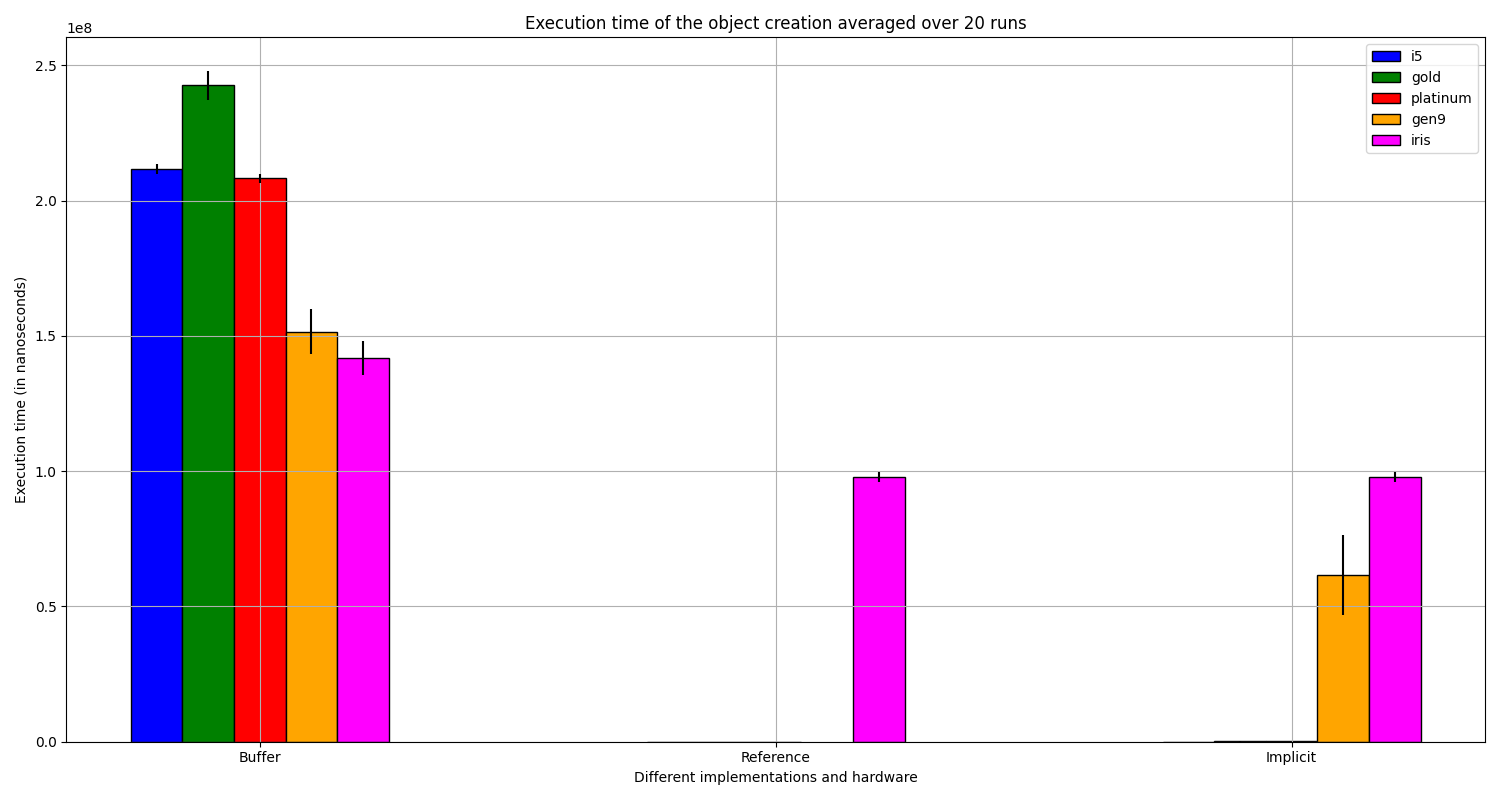
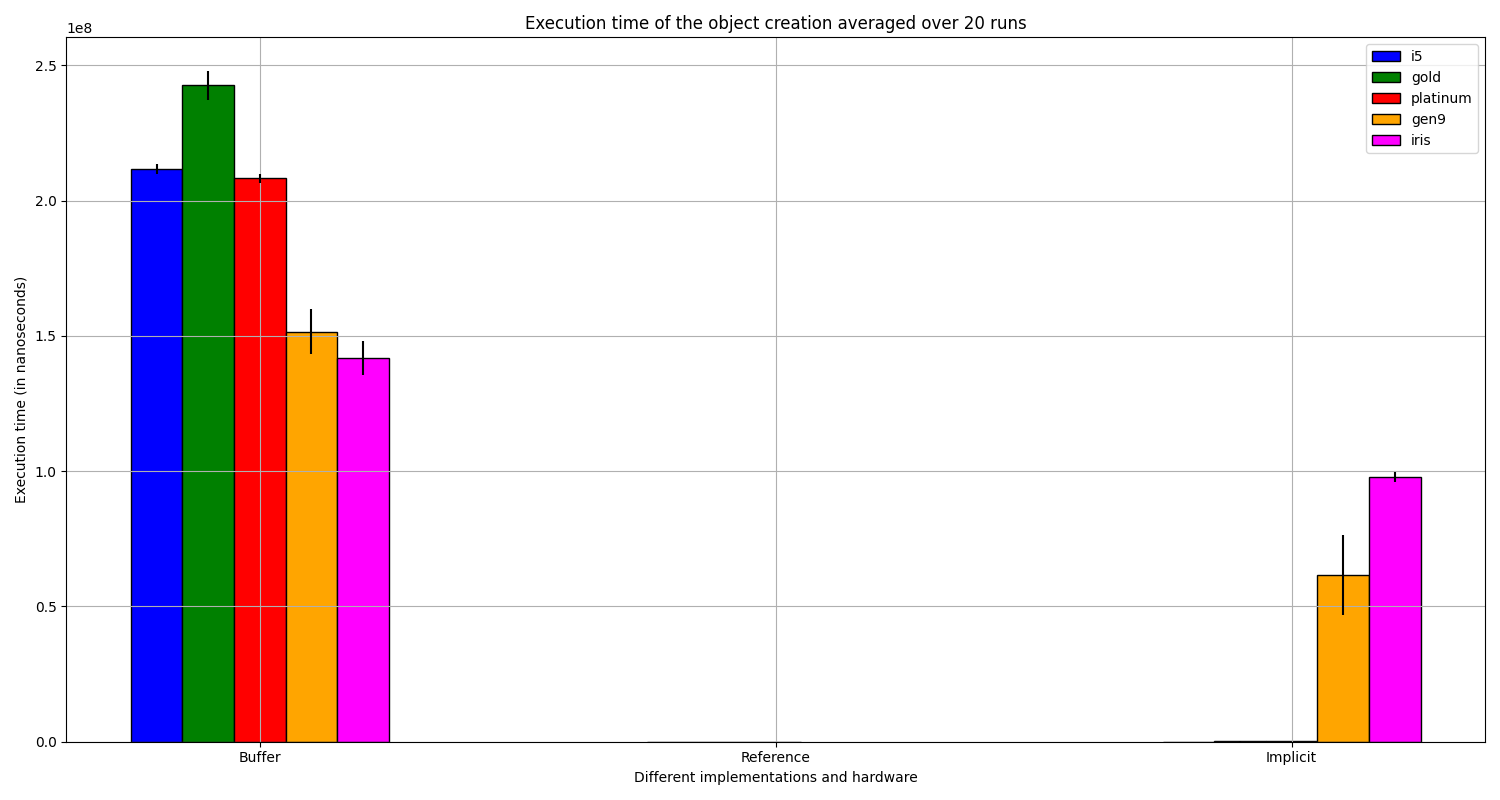
results renew and README and gitignore

Changed region(s): [[0.552, 0.5938, 0.6133, 0.9375]]

diff --git a/plot.py b/plot.py
@@ -15,8 +15,8 @@ from os.path import isfile, join
 
 path = "/home/julius/Downloads/idg-fpga-master/thesis/"
 
-# data_size = "small_param/"
-data_size = "big_param/"
+data_size = "small_param/"
+# data_size = "big_param/"
 
 path_buffer = path + "buffer/output/" + data_size
 path_ref = path + "reference/output/" + data_size
@@ -26,8 +26,8 @@ path_implicit = path + "implicit/output/" + data_size
 # NR_BASELINES * NR_TIMESTEPS * NR_CHANNELS or ((NR_STATIONS * (NR_STATIONS - 1)) / 2) * (NR_TIMESTEPS_SUBGRID * NR_TIMESLOTS) * NR_CHANNELS
 # small params: (10 * 9) / 2) * (128 * 2) * 16 = 184320
 # big params:   (48 * 47) / 2) * (128 * 4) * 16 = 9240576
-# visibilities = 184320
-visibilities = 9240576
+visibilities = 184320
+# visibilities = 9240576
 
 # the width of the bars of the plots
 width = 0.1
@@ -102,10 +102,10 @@ def plot_object_create(buf_i5, buf_gold, buf_plat, buf_gen9, buf_iris,
     fig.tight_layout()
     plt.savefig(path + "plots/" + data_size + "creation_time.png")
 
-    plt.yscale('log')
-    ax.set_title('Execution time of the object creation averaged over 20 runs in log scale')
-    plt.tight_layout()
-    plt.savefig(path + "plots/" + data_size + "creation_time_log.png")
+    # plt.yscale('log')
+    # ax.set_title('Execution time of the object creation averaged over 20 runs in log scale')
+    # plt.tight_layout()
+    # plt.savefig(path + "plots/" + data_size + "creation_time_log.png")
 
 # ---------------------------------------------------------------------------------------------------------------------
 
@@ -159,10 +159,10 @@ def plot_object_init(buf_i5, buf_gold, buf_plat, buf_gen9, buf_iris,
     fig.tight_layout()
     plt.savefig(path + "plots/" + data_size + "init_time.png")
 
-    plt.yscale('log')
-    ax.set_title('Execution time of the object initialisation averaged over 20 runs in log scale')
-    plt.tight_layout()
-    plt.savefig(path + "plots/" + data_size + "init_time_log.png")
+    # plt.yscale('log')
+    # ax.set_title('Execution time of the object initialisation averaged over 20 runs in log scale')
+    # plt.tight_layout()
+    # plt.savefig(path + "plots/" + data_size + "init_time_log.png")
 
 # ---------------------------------------------------------------------------------------------------------------------
 
@@ -205,10 +205,10 @@ def plot_kernel_duration(buf_i5, buf_gold, buf_plat, buf_gen9, buf_iris,
     fig.tight_layout()
     plt.savefig(path + "plots/" + data_size + "kernel_duration.png")
 
-    plt.yscale('log')
-    ax.set_title('A kernel iteration averaged over 20 runs in log scale expressed as visibilities per second (higher is better)')
-    plt.tight_layout()
-    plt.savefig(path + "plots/" + data_size + "kernel_duration_log.png")
+    # plt.yscale('log')
+    # ax.set_title('A kernel iteration averaged over 20 runs in log scale expressed as visibilities per second (higher is better)')
+    # plt.tight_layout()
+    # plt.savefig(path + "plots/" + data_size + "kernel_duration_log.png")
 
 # ---------------------------------------------------------------------------------------------------------------------
 
@@ -292,10 +292,10 @@ def plot_total(buf_i5, buf_gold, buf_plat, buf_gen9, buf_iris,
     fig.tight_layout()
     plt.savefig(path + "plots/" + data_size + "total_minus_kernel.png")
 
-    plt.yscale('log')
-    ax.set_title('Object creation and initialisation averaged over 20 runs expressed in nanoseconds in log scale')
-    plt.tight_layout()
-    plt.savefig(path + "plots/" + data_size + "total_minus_kernel_log.png")
+    # plt.yscale('log')
+    # ax.set_title('Object creation and initialisation averaged over 20 runs expressed in nanoseconds in log scale')
+    # plt.tight_layout()
+    # plt.savefig(path + "plots/" + data_size + "total_minus_kernel_log.png")
 
     # NOTE: we make a separate plot for this to also compare creation and initialisation.
     ax.bar(x - (width * 2), i5_data_st3[0], width, yerr=i5_data_st3[1], color='lightcyan', edgecolor='k', bottom=i5_bottom2)
@@ -309,10 +309,10 @@ def plot_total(buf_i5, buf_gold, buf_plat, buf_gen9, buf_iris,
     fig.tight_layout()
     plt.savefig(path + "plots/" + data_size + "total.png")
 
-    plt.yscale('log')
-    ax.set_title('Program duration averaged over 20 runs expressed in nanoseconds in log scale')
-    plt.tight_layout()
-    plt.savefig(path + "plots/" + data_size + "total_log.png")
+    # plt.yscale('log')
+    # ax.set_title('Program duration averaged over 20 runs expressed in nanoseconds in log scale')
+    # plt.tight_layout()
+    # plt.savefig(path + "plots/" + data_size + "total_log.png")
 
 # ---------------------------------------------------------------------------------------------------------------------
 # ---------------------------------------------------------------------------------------------------------------------

diff --git a/README.md b/README.md
@@ -1,0 +1,15 @@
+# Introduction
+This repository contains IDG implementations. The reference implementation uses OpenMP pragmas for parallelism the versions in buffer and implicit uses the OneAPI programming model for parallelism. The compare directory contains sample output from all implemented versions and tests the outputs for correctness against the reference CPU implementation. 
+
+# Environment
+Make sure the dpcpp command is usable this is used to compile the OneAPI versions. Before we can invoke the compiler, we may need to set certain environment variables that define the location of compiler-related components. These variables can be found in: /opt/intel/oneapi/setvars.sh
+
+This variable script is present in the OneAPI Base Toolkit which must be downloaded before use. Additionally the Intel oneAPI DPC++/C++ Compiler is designed and tested only for use on 64-bit Linux and Windows operating systems, 32-bit operating systems are not supported. Additionally, the macOS operating system is not supported by the compiler. 
+
+# Build and run the programs
+```
+make
+./run-gridder (buffer / implicit)
+./run-gridder-cpu (reference)
+./run-gridder.gpu (reference)
+```
